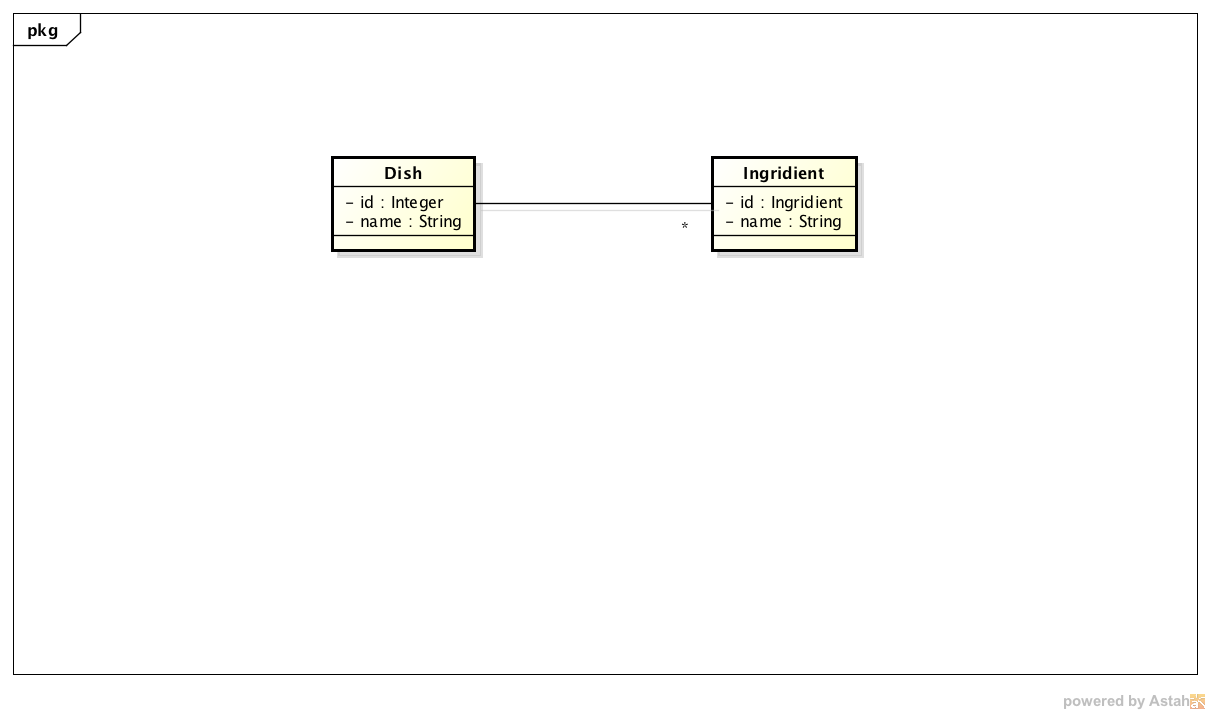
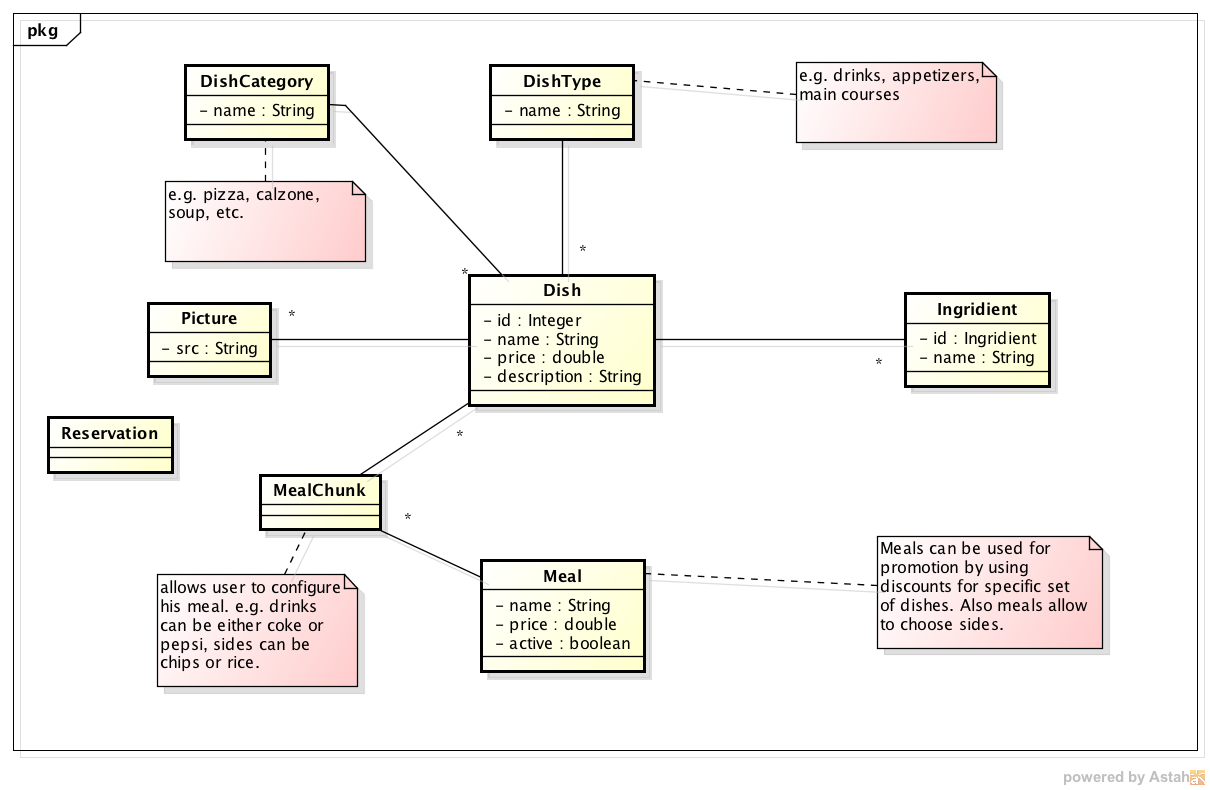
updated domain diagram

diff --git a/docs/readme.md b/docs/readme.md
@@ -1,1 +1,4 @@
+# Documentation for BAM
+
+Domain model describes all entities and their relationship. Use AstahUML community edition for viewing and editing UML diagram.
 ![Alt text](domain.png)
